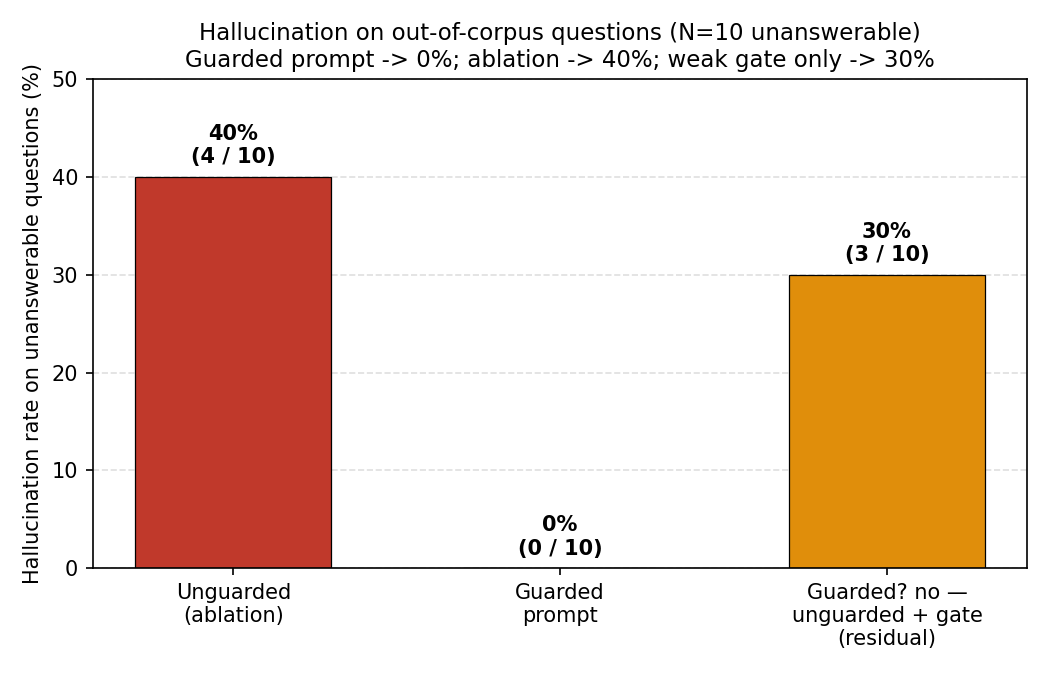
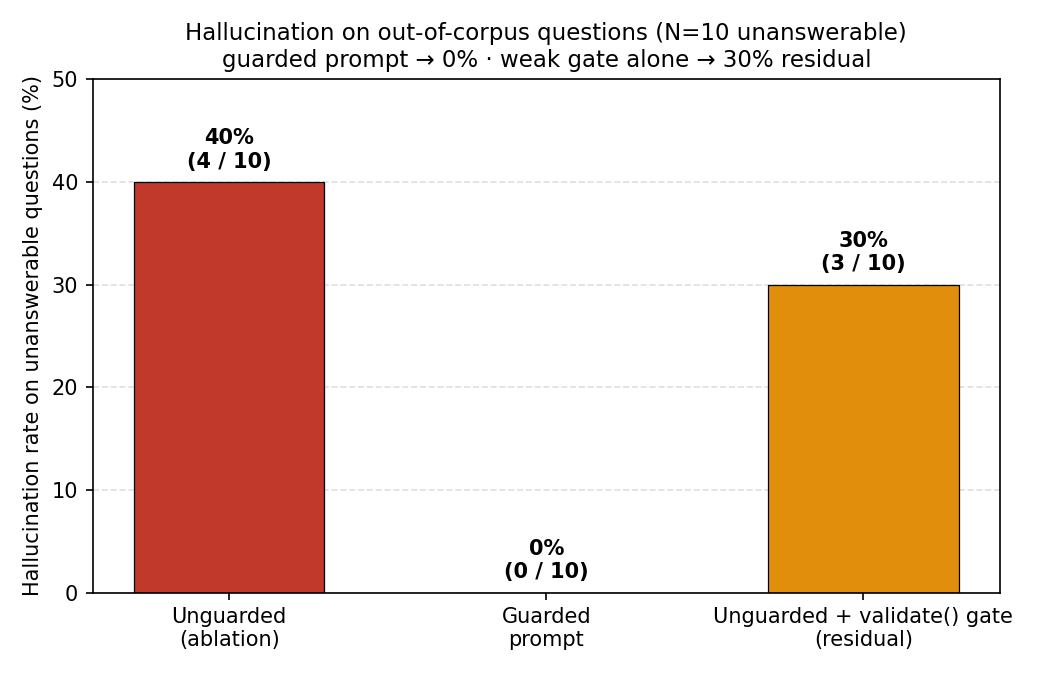
fix(charts): clearer ablation chart labels
- third bar relabeled 'Unguarded + validate() gate (residual)' (was confusing)
- title uses proper arrows, drops redundant percentages

diff --git a/eval/make_charts.py b/eval/make_charts.py
@@ -50,7 +50,7 @@ def chart_hallucination_ablation(path: str) -> None:
     labels = [
         "Unguarded\n(ablation)",
         "Guarded\nprompt",
-        "Guarded? no —\nunguarded + gate\n(residual)",
+        "Unguarded + validate() gate\n(residual)",
     ]
     values = [UNGUARDED_HALLUC, GUARDED_HALLUC, RESIDUAL_AFTER_GATE]
     colors = [RED, NVIDIA_GREEN, AMBER]
@@ -62,7 +62,7 @@ def chart_hallucination_ablation(path: str) -> None:
     ax.set_ylim(0, 50)
     ax.set_title(
         "Hallucination on out-of-corpus questions (N=10 unanswerable)\n"
-        "Guarded prompt -> 0%; ablation -> 40%; weak gate only -> 30%",
+        "guarded prompt → 0% · weak gate alone → 30% residual",
         fontsize=11,
     )
     ax.yaxis.grid(True, linestyle="--", alpha=0.4)
